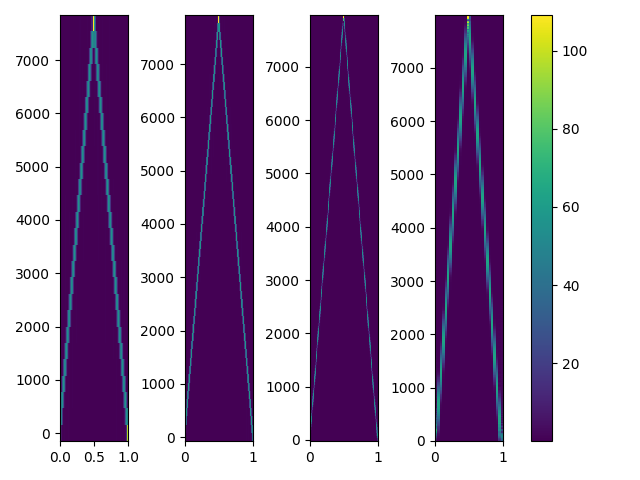
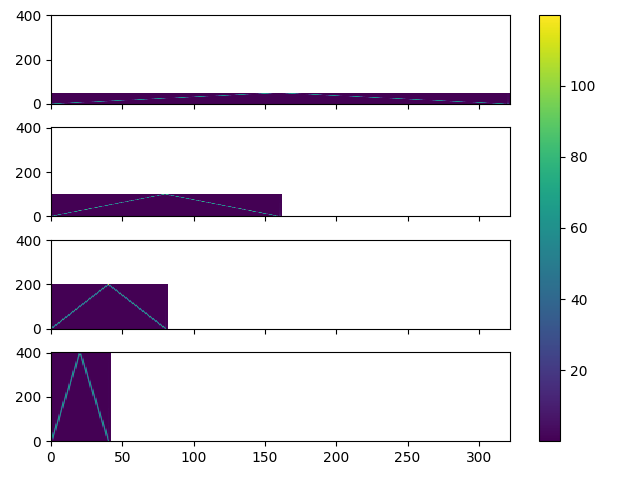
トレードオフがわかりやすくなるように図を変更

diff --git a/skotsugi/chapter04/q09.py b/skotsugi/chapter04/q09.py
@@ -13,23 +13,20 @@ L = 50
 S = 25
 Xs = []
 for i in range(1, 5):
-  L = L * i
-  S = S * i
+  L = L * 2
+  S = S * 2
   w = hamming(L)
   X = stft(L, S, w, x)
   Xs.append(X)
 
-fig, ax = plt.subplots(1, 4)
+fig, ax = plt.subplots(4, 1, sharey=True, sharex=True)
 for i, X in enumerate(Xs):
   A = np.abs(X)
 
   F = X.shape[0]
   T = X.shape[1]
 
-  t_ = (np.arange(T) + 0.5) * sec / T
-  f = np.arange(F) / F * fs / 2
-
-  cb = ax[i].pcolormesh(t_, f, A)
+  cb = ax[i].pcolormesh(A)
 
 plt.tight_layout()
 
